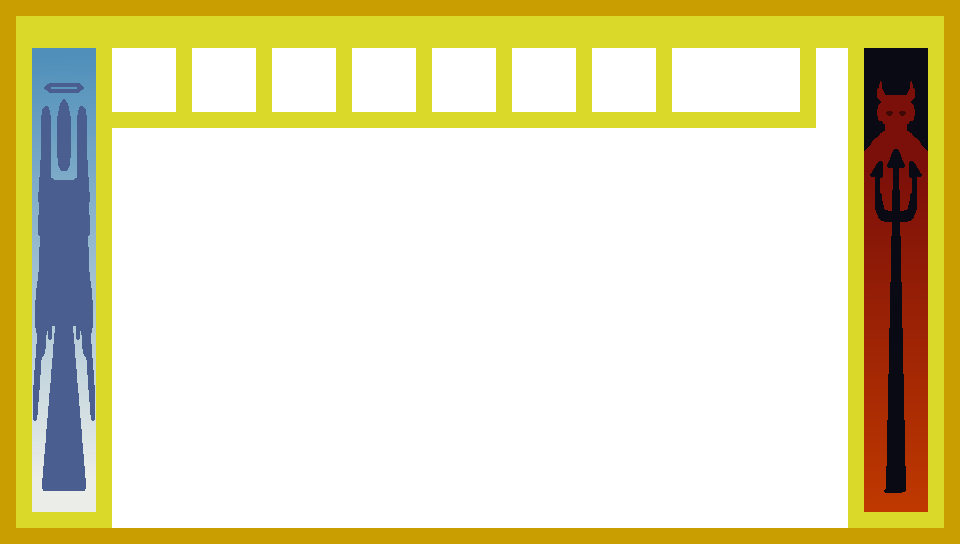
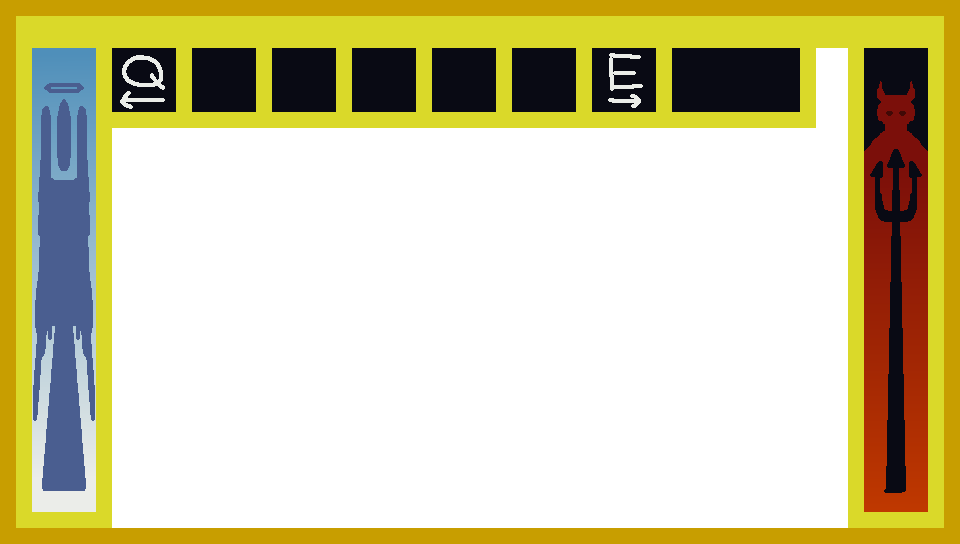
added roster data to transfer between scenes

Changed region(s): [[0.0938, 0.0625, 0.8438, 0.2188]]

diff --git a/src/scenes/Inventory.js b/src/scenes/Inventory.js
@@ -15,37 +15,36 @@ class Inventory extends Phaser.Scene {
         // create inventory box
         this.add.image(0, 0, 'inventory').setOrigin(0)
 
-
         // prepare array
         const troops = [];
-        // create slot objects
 
-        this.archer = this.physics.add.image(176, 112, 'archer_icon').setOrigin(0,0)
+        // create slot objects
+        this.archer = this.physics.add.image(176, 112, 'Archer_icon').setOrigin(0,0)
         this.archer.name = 'Archer'
         troops.push(this.archer)
 
-        this.sword = this.physics.add.image(256, 112, 'sword_icon').setOrigin(0,0)
+        this.sword = this.physics.add.image(256, 112, 'Swordsman_icon').setOrigin(0,0)
         this.sword.name = 'Swordsman'
         troops.push(this.sword)
 
-        this.shield = this.physics.add.image(416, 112, 'shield_icon').setOrigin(0,0)
+        this.shield = this.physics.add.image(416, 112, 'Shieldbearer_icon').setOrigin(0,0)
         this.shield.name = 'Shieldbearer'
         troops.push(this.shield)
 
-        this.axe = this.physics.add.image(336, 112, 'axe_icon').setOrigin(0,0)
+        this.axe = this.physics.add.image(336, 112, 'Axeman_icon').setOrigin(0,0)
         this.axe.name = 'Axeman'
         troops.push(this.axe)
 
-        this.spearman = this.physics.add.image(176, 192, 'spearman_icon').setOrigin(0,0)
+        this.spearman = this.physics.add.image(176, 192, 'Spearman_icon').setOrigin(0,0)
         this.spearman.name = 'Spearman'
         troops.push(this.spearman)
 
-        this.cavalry = this.physics.add.image(256, 192, 'cavalry_icon').setOrigin(0,0)
+        this.cavalry = this.physics.add.image(256, 192, 'Cavalry_icon').setOrigin(0,0)
         this.cavalry.name = 'Cavalry'
         troops.push(this.cavalry)
 
         
-        this.archangel = this.physics.add.image(336, 192, 'archangel_icon').setOrigin(0,0)
+        this.archangel = this.physics.add.image(336, 192, 'Archangel_icon').setOrigin(0,0)
         this.archangel.name = 'Archangel'
         troops.push(this.archangel)
         
@@ -65,22 +64,26 @@ class Inventory extends Phaser.Scene {
         keySPACE = this.input.keyboard.addKey(Phaser.Input.Keyboard.KeyCodes.SPACE)
         keyESC = this.input.keyboard.addKey(Phaser.Input.Keyboard.KeyCodes.ESC)
 
-        // adding troops to roster
+        // adding troops to roster, remove if pressed again
         this.physics.add.overlap(this.cursor, troops, (cursor, troop)=> {
             if (Phaser.Input.Keyboard.JustDown(keySPACE)) {
                 if (troop.name == 'Archer'){ 
                     if (roster.length < MAXROSTERSIZE && level >= 1 && !this.checkDuplicates(troop)) {
                         roster.push('Archer')
+                        this.updateRoster()
                     } else if(this.checkDuplicates(troop)){
                         this.removeTroop(troop)
+                        this.updateRoster()
                     } else {
                         console.log("NUH UH (play err anim)")
                     }
                 } else if (troop.name == 'Swordsman'){ 
                     if (roster.length < MAXROSTERSIZE && level >= 1 && !this.checkDuplicates(troop)) {
                         roster.push('Swordsman')
+                        this.updateRoster()
                     } else if(this.checkDuplicates(troop)){
                         this.removeTroop(troop)
+                        this.updateRoster()
                     } else {
                         console.log("NUH UH (play err anim)")
                     }
@@ -88,8 +91,10 @@ class Inventory extends Phaser.Scene {
                 else if (troop.name == 'Shieldbearer'){ 
                     if (roster.length < MAXROSTERSIZE && level >= 1 && !this.checkDuplicates(troop)) {
                         roster.push('Shieldbearer')
+                        this.updateRoster()
                     } else if(this.checkDuplicates(troop)){
                         this.removeTroop(troop)
+                        this.updateRoster()
                     } else {
                         console.log("NUH UH (play err anim)")
                     }
@@ -97,8 +102,10 @@ class Inventory extends Phaser.Scene {
                 else if (troop.name == 'Axeman'){ 
                     if (roster.length < MAXROSTERSIZE && level >= 1 && !this.checkDuplicates(troop)) {
                         roster.push('Axeman')
+                        this.updateRoster()
                     } else if(this.checkDuplicates(troop)){
                         this.removeTroop(troop)
+                        this.updateRoster()
                     } else {
                         console.log("NUH UH (play err anim)")
                     }
@@ -106,8 +113,10 @@ class Inventory extends Phaser.Scene {
                 else if (troop.name == 'Spearman'){ 
                     if (roster.length < MAXROSTERSIZE && level >= 1 && !this.checkDuplicates(troop)) {
                         roster.push('Spearman')
+                        this.updateRoster()
                     } else if(this.checkDuplicates(troop)){
                         this.removeTroop(troop)
+                        this.updateRoster()
                     } else {
                         console.log("NUH UH (play err anim)")
                     }
@@ -115,8 +124,10 @@ class Inventory extends Phaser.Scene {
                 else if (troop.name == 'Cavalry'){ 
                     if (roster.length < MAXROSTERSIZE && level >= 1 && !this.checkDuplicates(troop)) {
                         roster.push('Cavalry')
+                        this.updateRoster()
                     } else if(this.checkDuplicates(troop)){
                         this.removeTroop(troop)
+                        this.updateRoster()
                     } else {
                         console.log("NUH UH (play err anim)")
                     }
@@ -124,14 +135,31 @@ class Inventory extends Phaser.Scene {
                 else if (troop.name == 'Archangel'){ 
                     if (roster.length < MAXROSTERSIZE && level >= 1 && !this.checkDuplicates(troop)) {
                         roster.push('Archangel')
+                        this.updateRoster()
                     } else if(this.checkDuplicates(troop)){
                         this.removeTroop(troop)
+                        this.updateRoster()
                     } else {
                         console.log("NUH UH (play err anim)")
                     }
                 }
             }
         })
+
+        // create empty roster objects
+        this.slots = []
+        this.slot0 = this.add.image(112, 464, 'black_box').setOrigin(0,0)
+        this.slot1 = this.add.image(192, 464, 'black_box').setOrigin(0,0)
+        this.slot2 = this.add.image(272, 464, 'black_box').setOrigin(0,0)
+        this.slot3 = this.add.image(352, 464, 'black_box').setOrigin(0,0)
+        this.slot4 = this.add.image(432, 464, 'black_box').setOrigin(0,0)
+        this.slots.push(this.slot0)
+        this.slots.push(this.slot1)
+        this.slots.push(this.slot2)
+        this.slots.push(this.slot3)
+        this.slots.push(this.slot4)
+
+        this.updateRoster()
     }
 
     update() {
@@ -170,6 +198,18 @@ class Inventory extends Phaser.Scene {
             if (roster[i] == troopToRemove.name) {
                 roster.splice(i, 1)
             }
+        }
+    }
+
+    // updates roster in bottom of screen
+    updateRoster() {
+        let i
+        for (i = 0; i < roster.length; i++) {
+            this.slots[i].setTexture(roster[i] + '_icon')
+        }
+        while(i < 5) {
+            this.slots[i].setTexture('black_box')
+            i++
         }
     }
 }

diff --git a/src/scenes/Load.js b/src/scenes/Load.js
@@ -11,17 +11,19 @@ class Load extends Phaser.Scene {
         this.load.image('overlay2', 'battle_overlay.png')
         this.load.image('frame', 'camera_frame.png')
         this.load.image('red_dot', 'red_dot.png')
+        this.load.image('blue_box', 'blue_box.png')
+        this.load.image('black_box', 'black_box.png')
         this.load.image('inventory', 'inventory.png')
         this.load.image('cursor', 'cursor.png')
 
         // load icons
-        this.load.image('shield_icon', 'shield_icon.png')
-        this.load.image('axe_icon', 'axe_icon.png')
-        this.load.image('sword_icon', 'sword_icon.png')
-        this.load.image('archer_icon', 'archer_icon.png')
-        this.load.image('archangel_icon', 'archangel_icon.png')
-        this.load.image('spearman_icon', 'spearman_icon.png')
-        this.load.image('cavalry_icon', 'cavalry_icon.png')
+        this.load.image('Shieldbearer_icon', 'shield_icon.png')
+        this.load.image('Axeman_icon', 'axe_icon.png')
+        this.load.image('Swordsman_icon', 'sword_icon.png')
+        this.load.image('Archer_icon', 'archer_icon.png')
+        this.load.image('Archangel_icon', 'archangel_icon.png')
+        this.load.image('Spearman_icon', 'spearman_icon.png')
+        this.load.image('Cavalry_icon', 'cavalry_icon.png')
         this.load.image('question_mark', 'question_mark.png')
 
         this.load.image('tilesetImage', 'tileset.png')

diff --git a/src/scenes/Map.js b/src/scenes/Map.js
@@ -32,6 +32,11 @@ class Map extends Phaser.Scene {
         this.overlay = this.add.image(0,0,'overlay').setOrigin(0)
         this.overlay.setScrollFactor(0)
 
+        // set up roster icons
+        for (let i = 0; i < roster.length; i++) {
+            this.add.image(112 + (i * 80), 464, roster[i] + '_icon').setOrigin(0,0).setScrollFactor(0)
+        }
+
         // set up coin counter
         let coinConfig = {
             fontFamily: 'Seagram',

diff --git a/src/scenes/Battle.js b/src/scenes/Battle.js
@@ -25,6 +25,11 @@ class Battle extends Phaser.Scene {
         // create overlay
         this.add.image(0, 0, 'overlay2').setScrollFactor(0).setOrigin(0)
 
+        // set up roster icons
+        for (let i = 0; i < roster.length; i++) {
+            this.add.image(192 + (i * 80), 48, roster[i] + '_icon').setOrigin(0,0).setScrollFactor(0)
+        }
+
         // set up coin counter
         let coinConfig = {
             fontFamily: 'Seagram',
